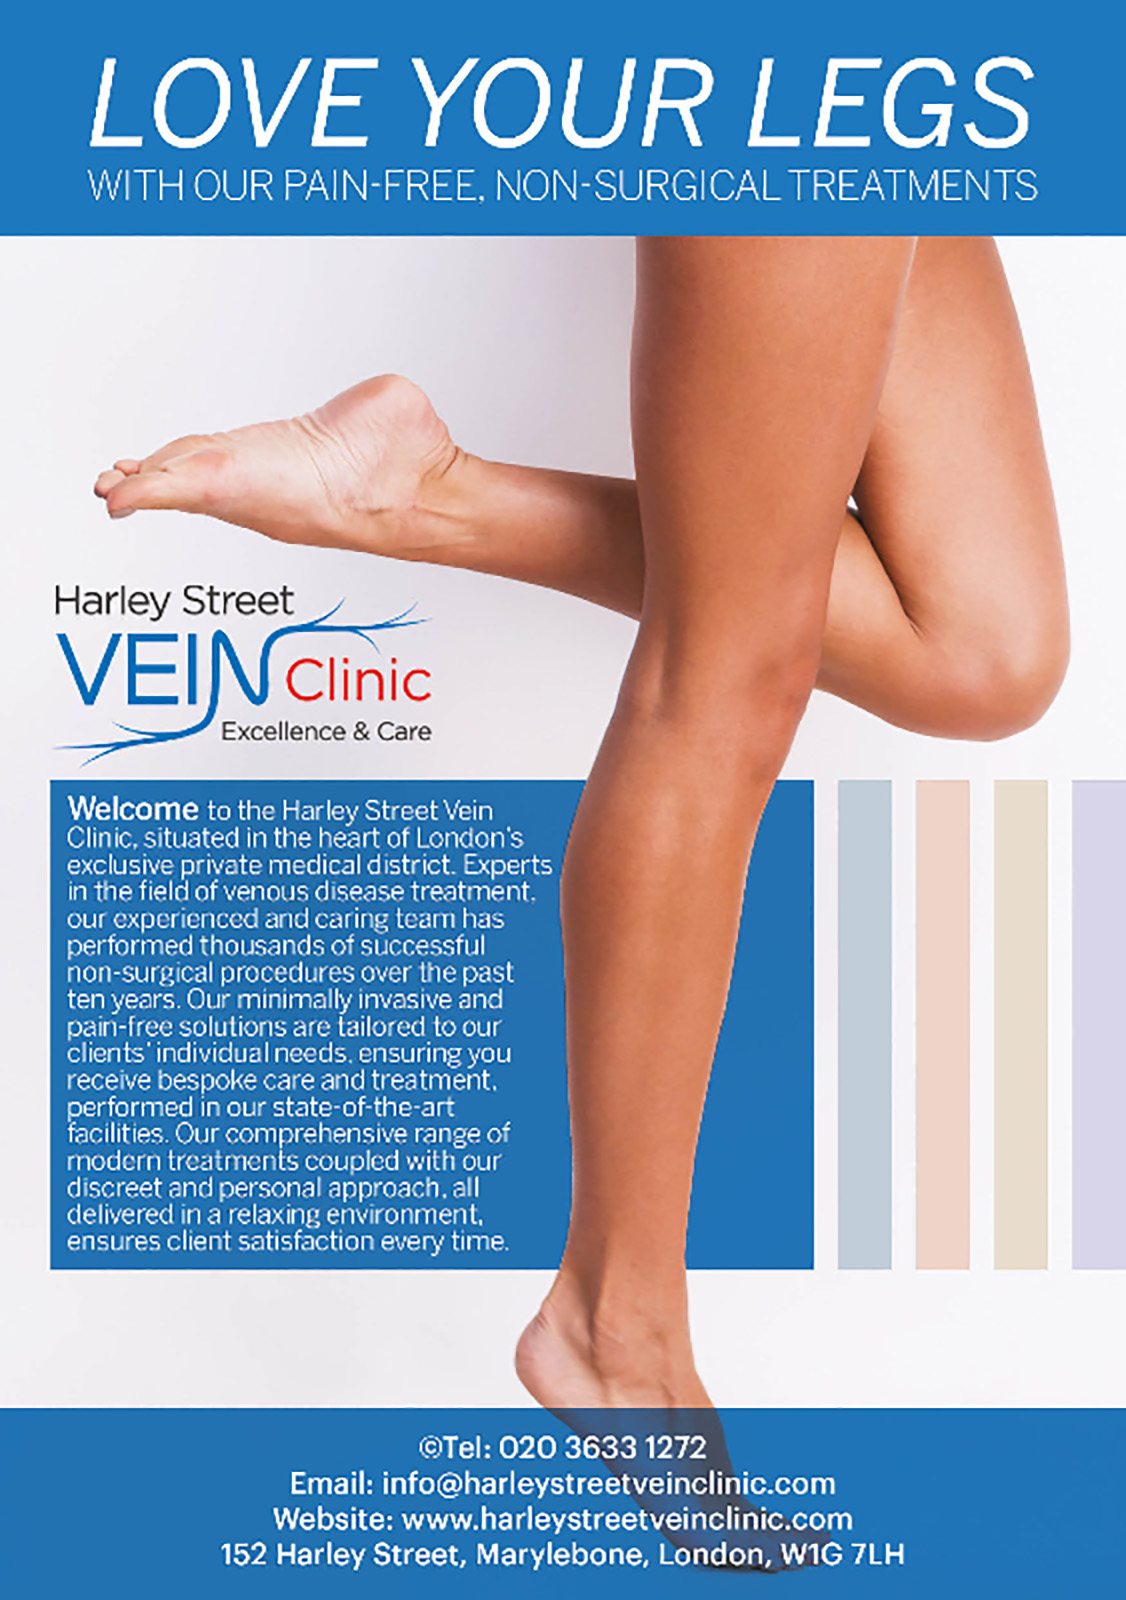
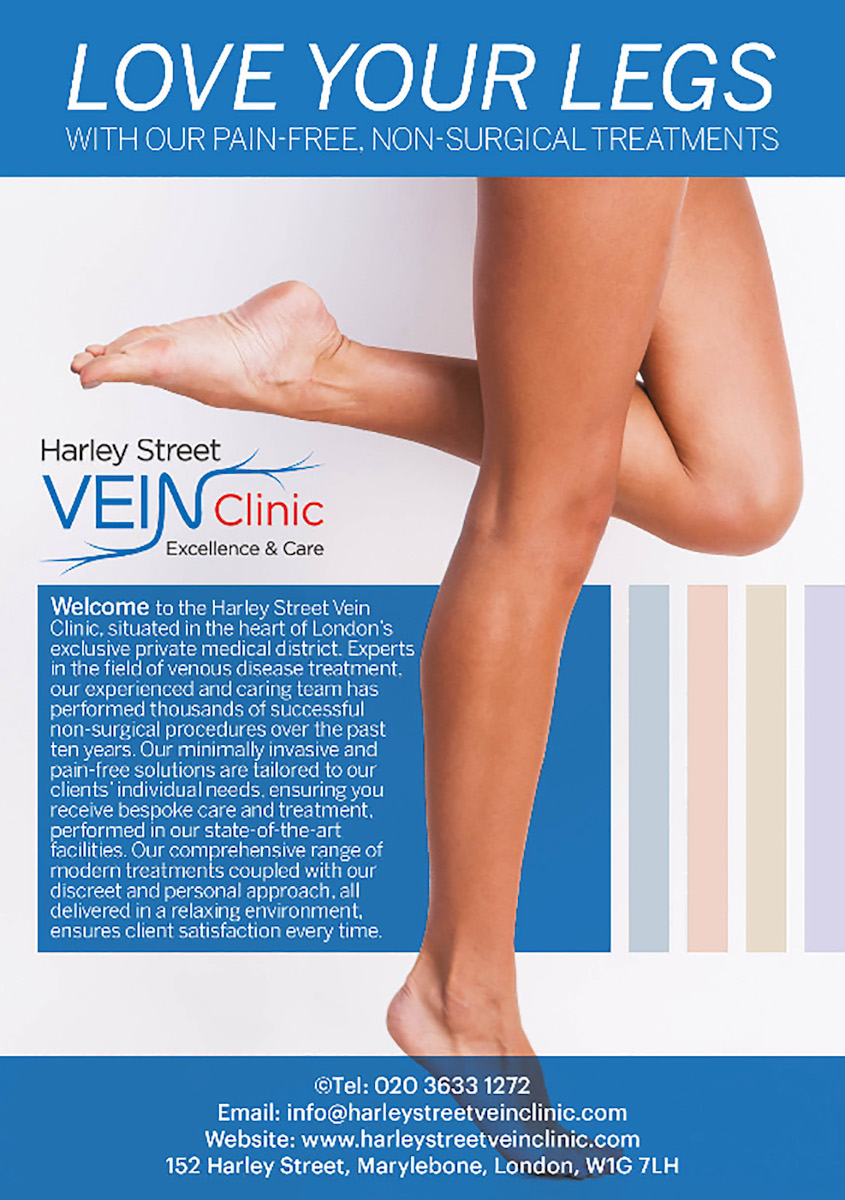
resize and jpegify portfolio images

diff --git a/src/views/Portfolio.vue b/src/views/Portfolio.vue
@@ -24,7 +24,7 @@ export default {
           id: "001",
           name: "Ronhill",
           logoPath: "./images/clients/ronhill.png",
-          imagePath: "./images/clients/modals/ronhill.png",
+          imagePath: "./images/clients/modals/ronhill.jpg",
           description:
             "This leading running brand wanted to create an online social media campaign called #RunEveryDay to raise its profile and encourage people of all abilities to start running. Healthy Content was asked to supply relevant content, including tips for beginners, how to get fitter, training plans and inspirational blogs.",
         },
@@ -48,7 +48,7 @@ export default {
           id: "004",
           name: "Dennis Publishing",
           logoPath: "./images/clients/dennis.png",
-          imagePath: "./images/clients/modals/dennis.png",
+          imagePath: "./images/clients/modals/dennis.jpg",
           description:
             "This busy publisher wanted to produce a series of fitness books aimed at women keen to get in shape. The Healthy Content team created three 148 page books, covering every aspect of the editorial process, including generating the editorial concept and content for each book and commissioning and writing the copy, as well as design and production. The portfolio received print-ready PDF files, on time and on budget.",
         },
@@ -56,7 +56,7 @@ export default {
           id: "005",
           name: "Wild Bunch Media",
           logoPath: "./images/clients/womens-running.png",
-          imagePath: "./images/clients/modals/womens-running.png",
+          imagePath: "./images/clients/modals/womens-running.jpg",
           description:
             "The award-winning publishers of Women's and Men's Running magazines wanted to create a series of bookazines for runners training for spring marathons. Healthy Content Director Christina Macdonald commissioned, edited and oversaw the design of four marathon books, liaising with writers, designers and photo libraries. The books were sold in retail outlets and online.",
         },
